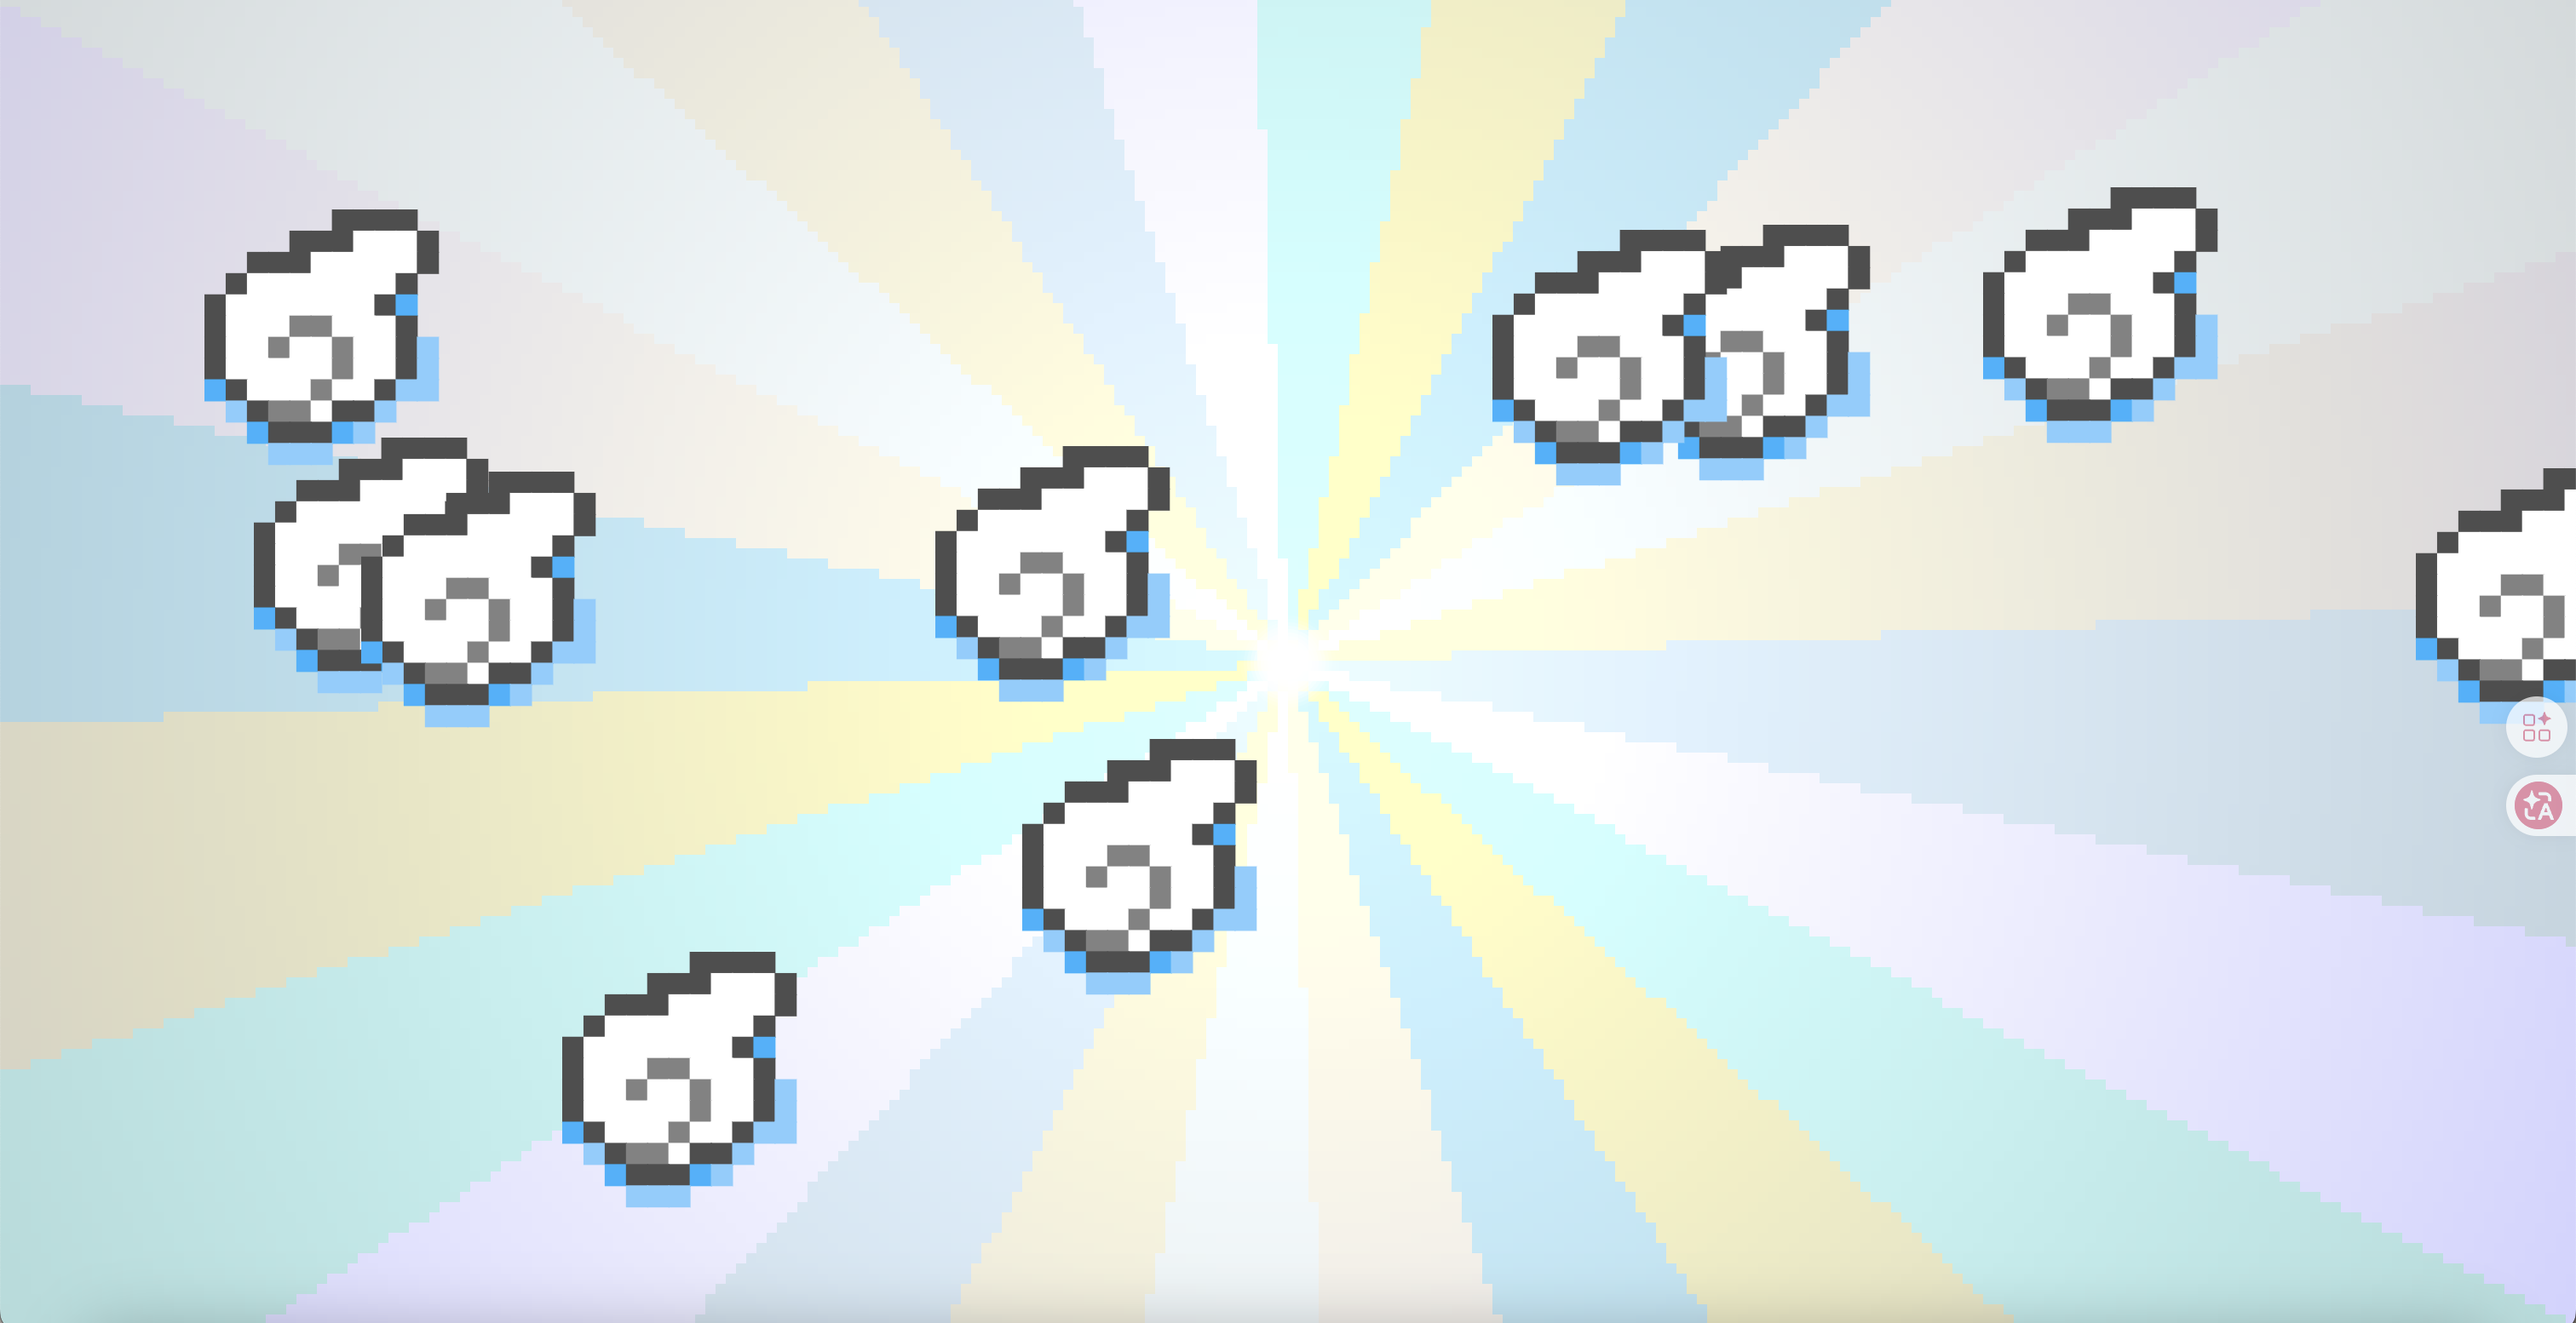
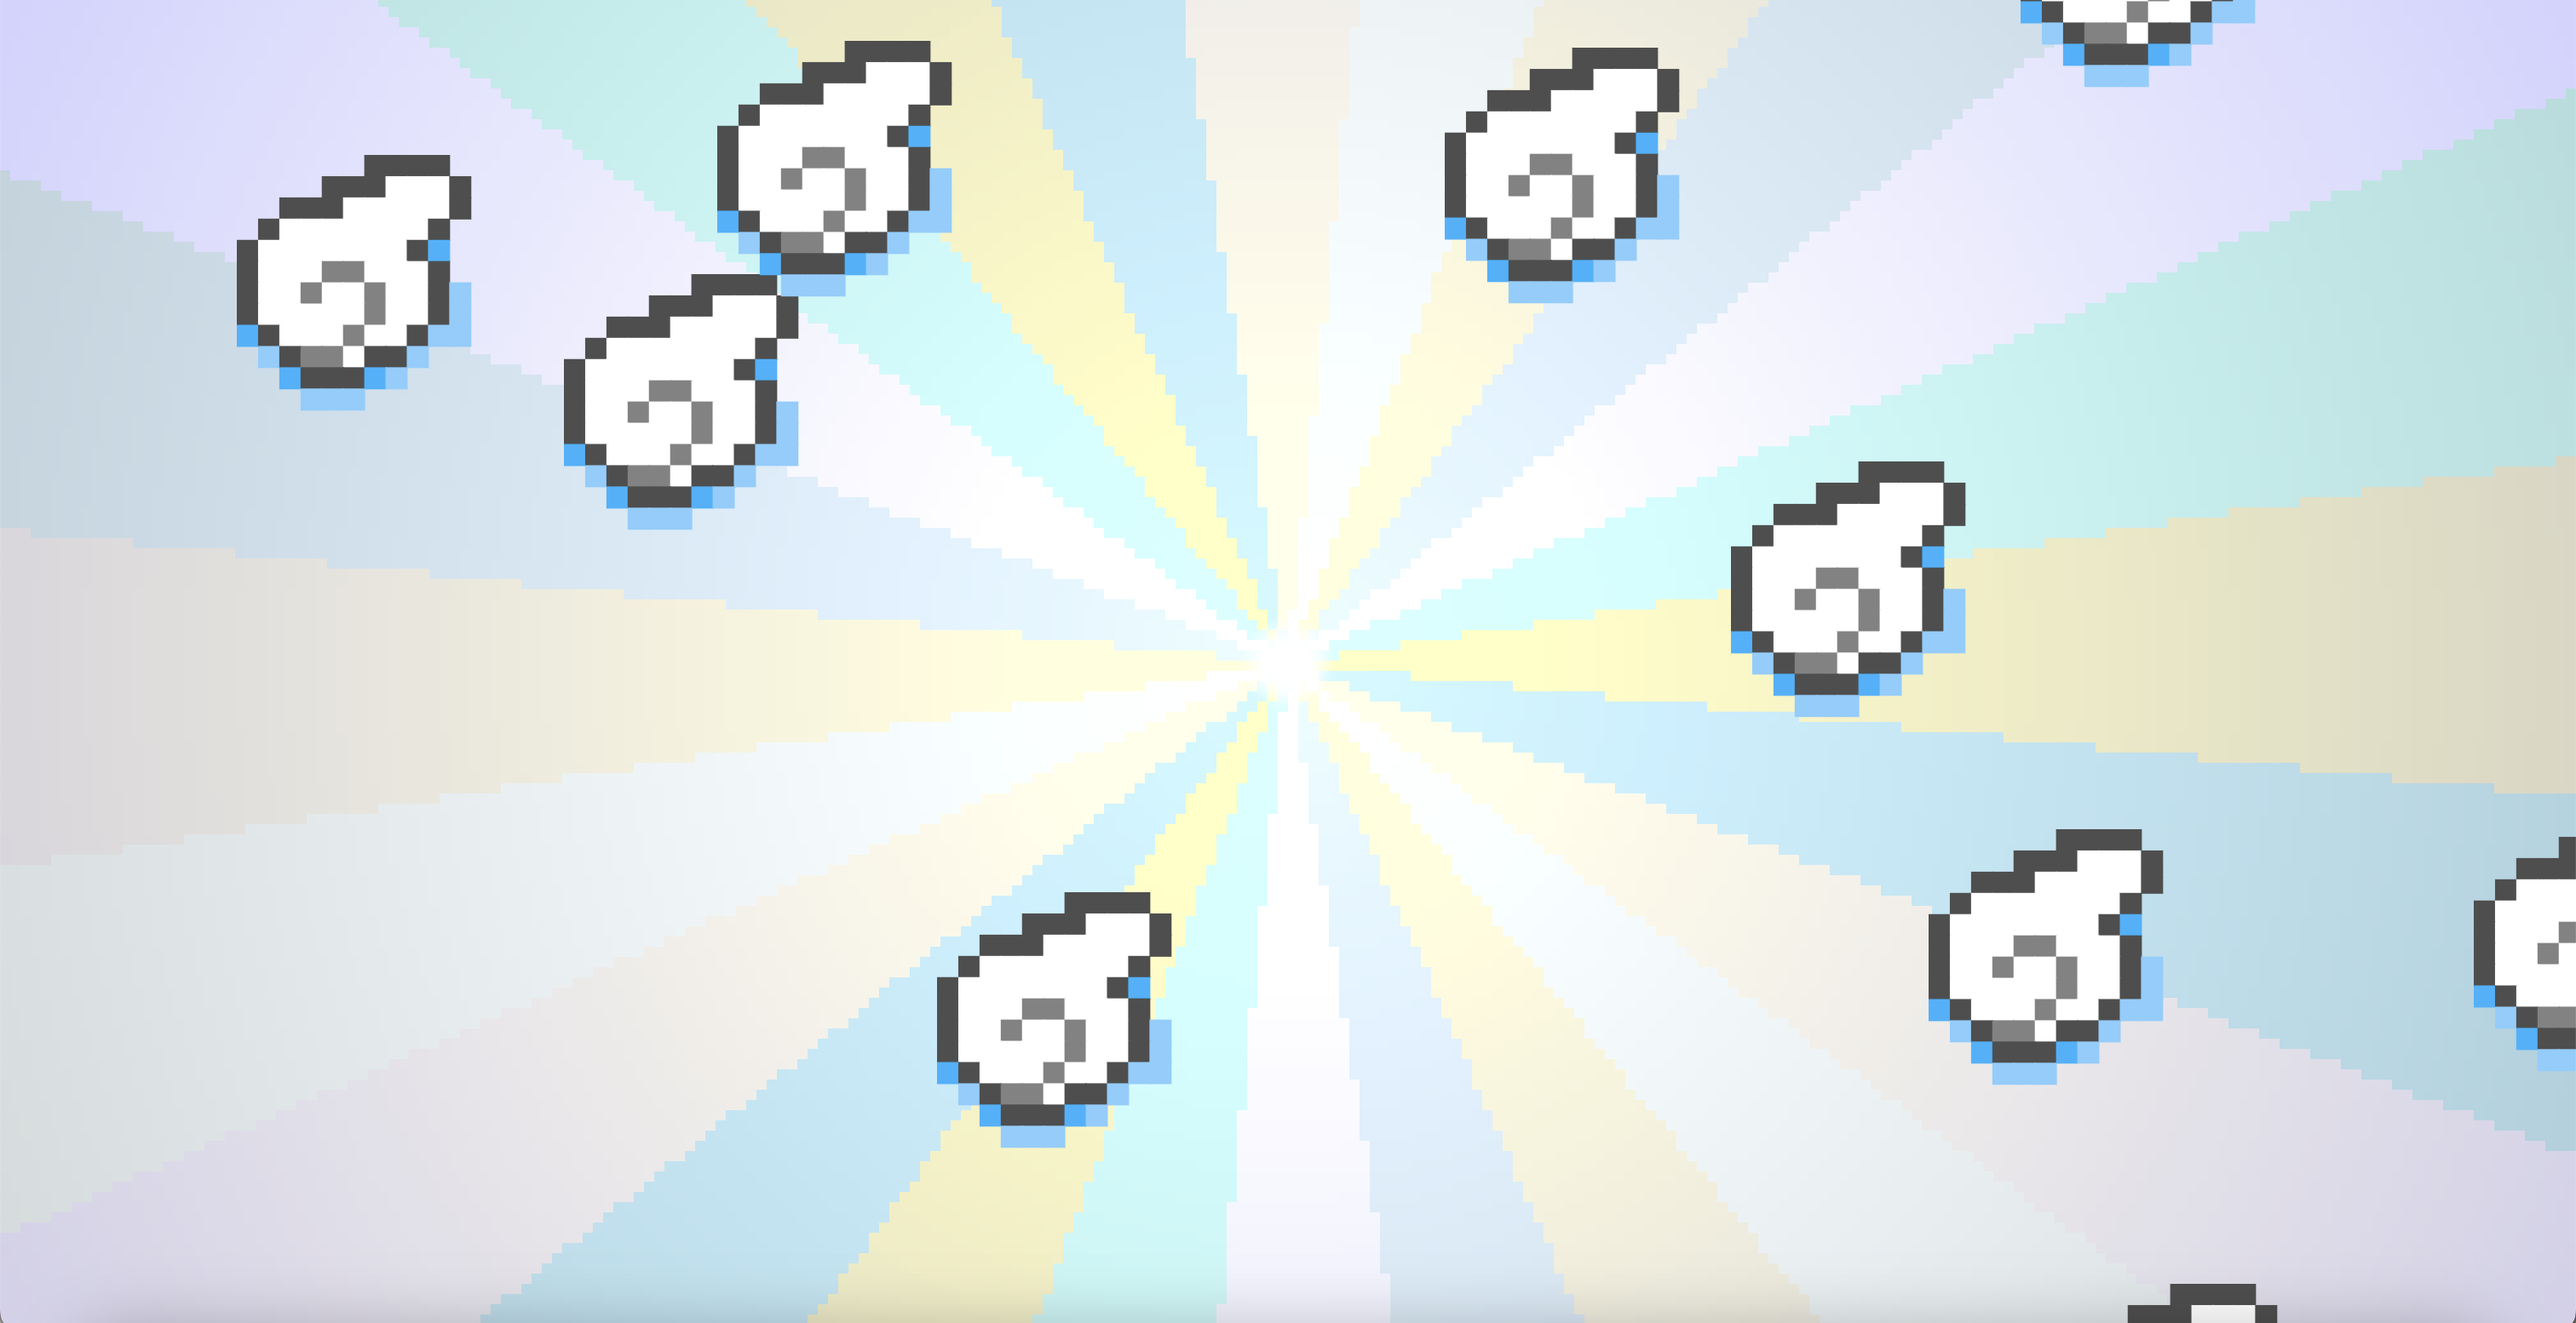
README update
README update

diff --git a/README.md b/README.md
@@ -49,6 +49,12 @@ In the hell scene, each pupil randomly shifts to a new position every 40 frames,
 
 In the heaven scene, blue and yellow light rays rotate over time by updating the angle value every frame. And wings continuously fly from one side of the window to the other. These animations build a sense of spiritual elevation, creating a contrast with the darker scene of the project. 
 
+![Sketch](image/FloatingCrosses+Spider.png)
+*Floating Crosses and Moving Spider*
+
+![Sketch](image/WatchingEyes.png)
+*Watching Eyes*
+
 ![Sketch](image/LightRays+Wings.png)
 *Rotating Light Rays and Flying Wings*
 
